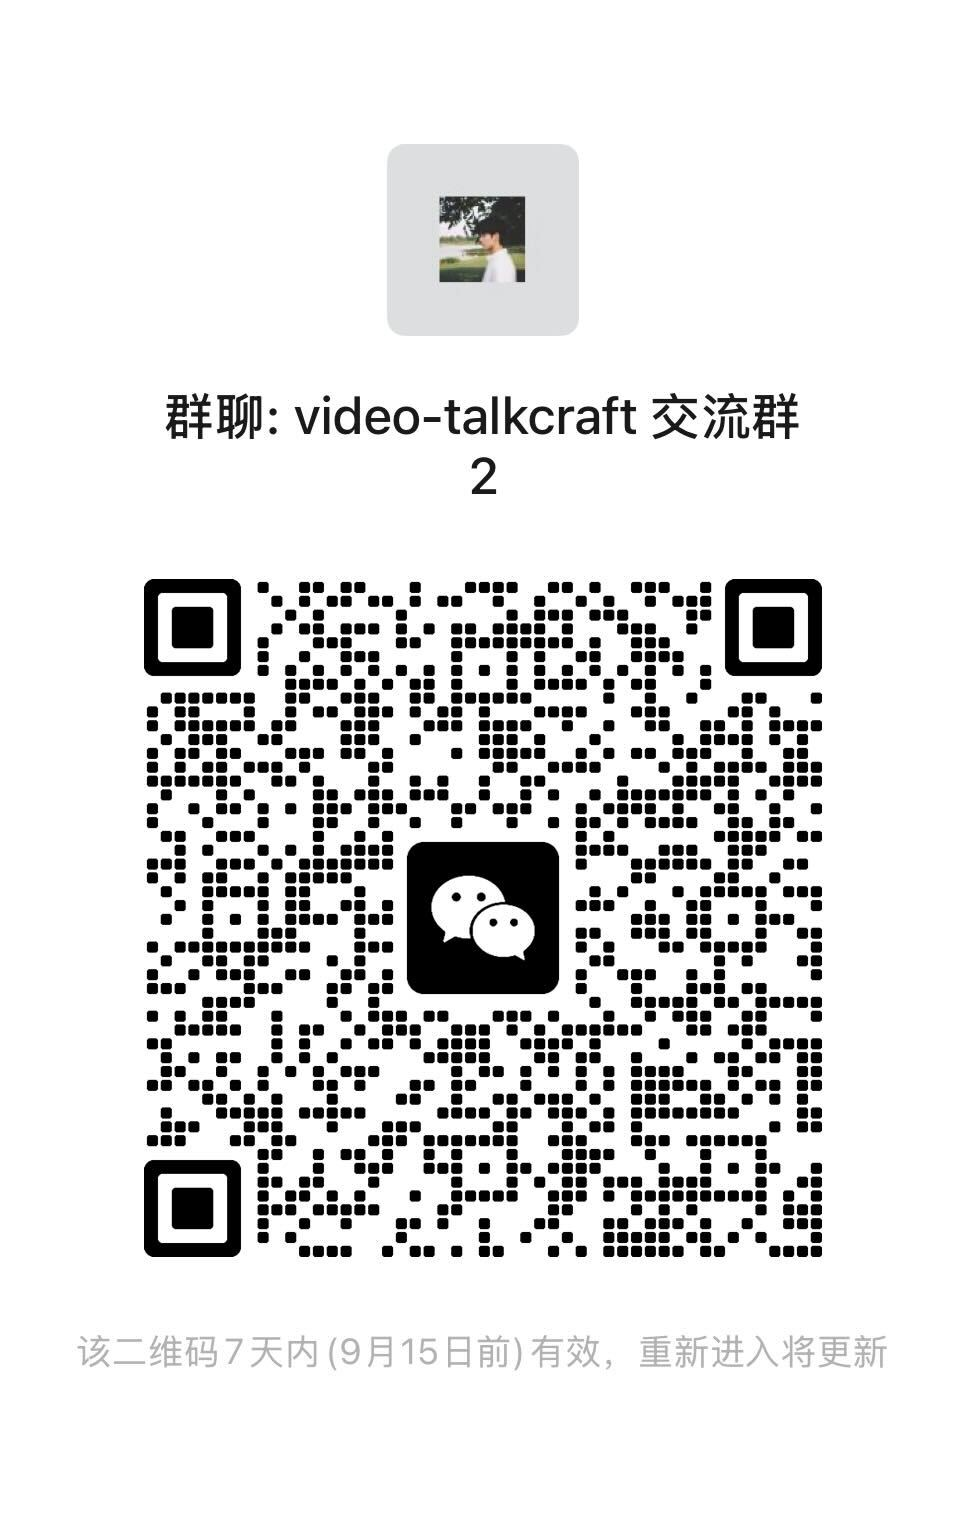
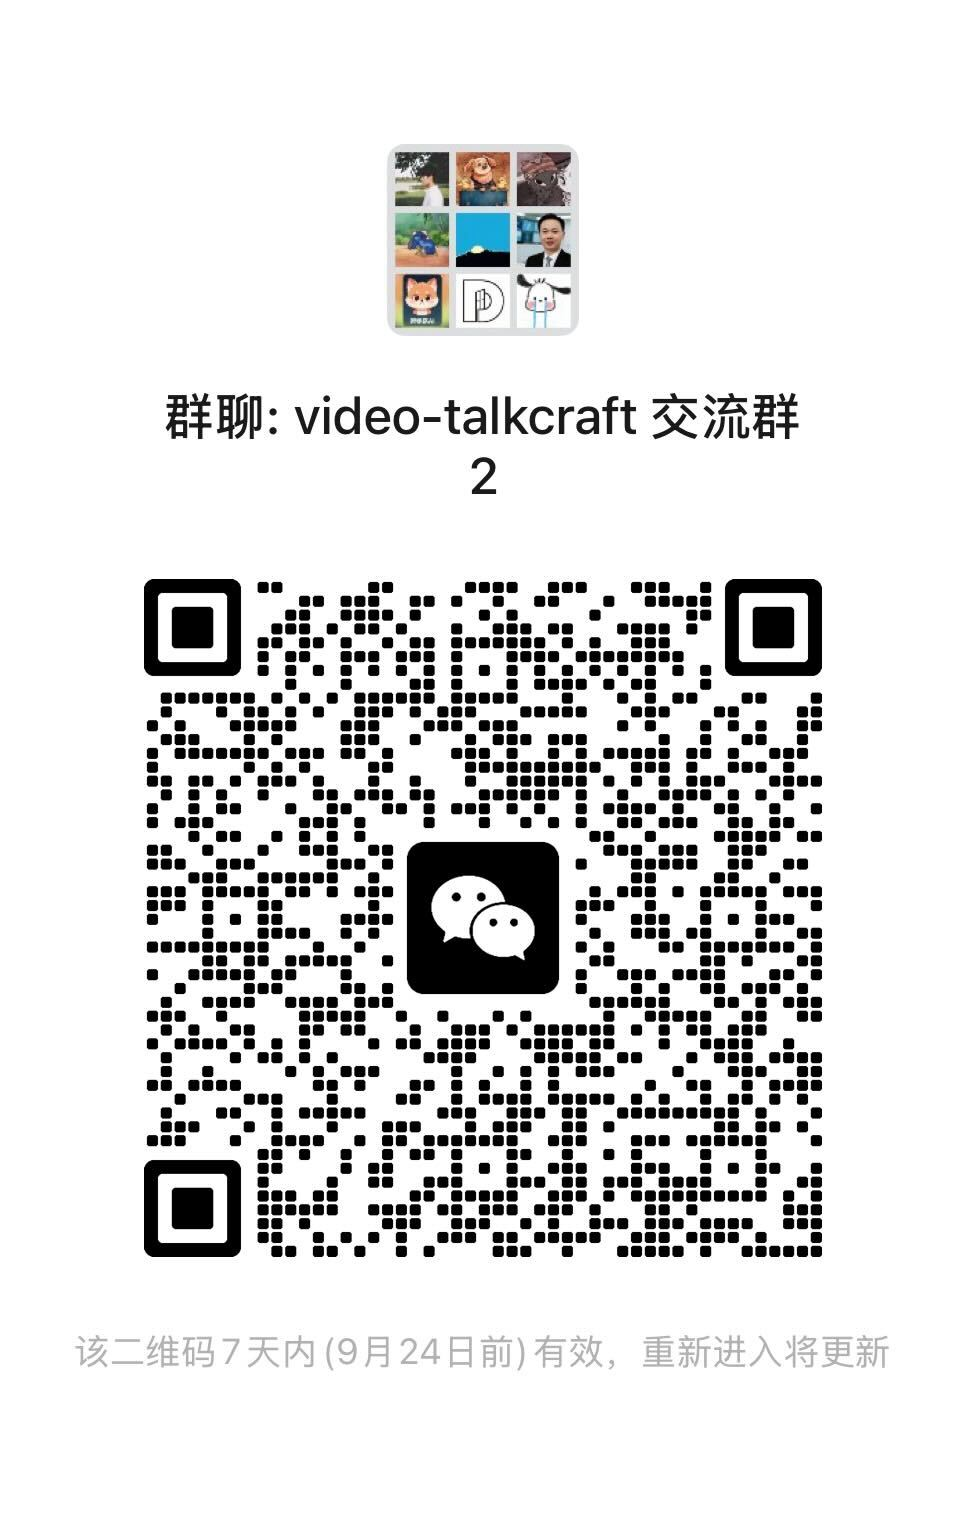
Update README WeChat group QR code (#37)

diff --git a/README.md b/README.md
@@ -279,4 +279,4 @@ agent 读方法论、选动效配方卡、写 [Remotion](https://www.remotion.de
 
 <img src="assets/wechat-group.jpg" alt="video-talkcraft 微信交流群二维码" width="300">
 
-二维码更新于 2026-09-08，过期后会不定期更新；也可通过上方社媒直接联系作者。
+二维码更新于 2026-09-17，过期后会不定期更新；也可通过上方社媒直接联系作者。
